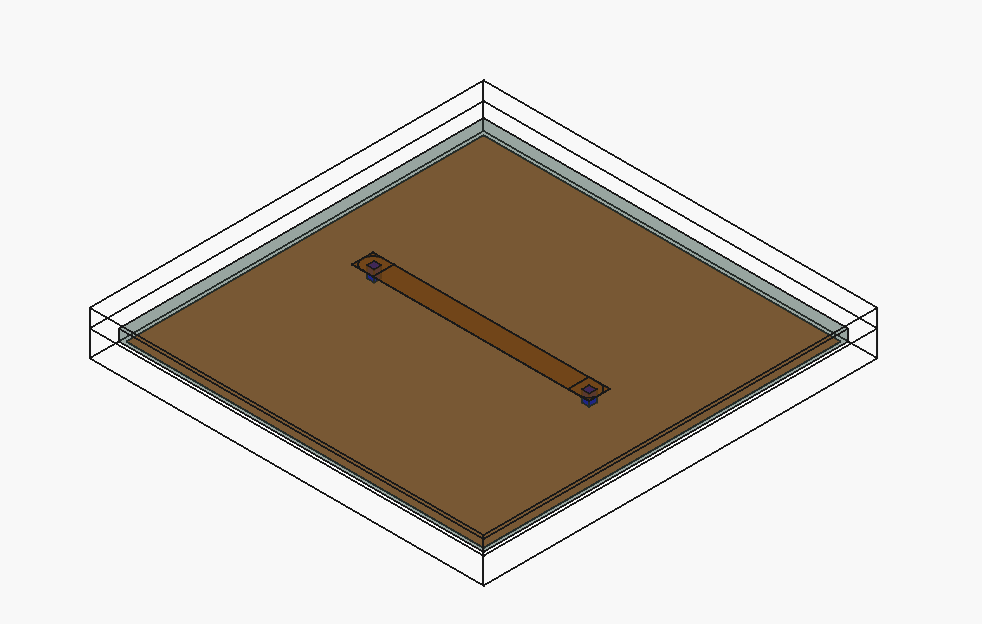
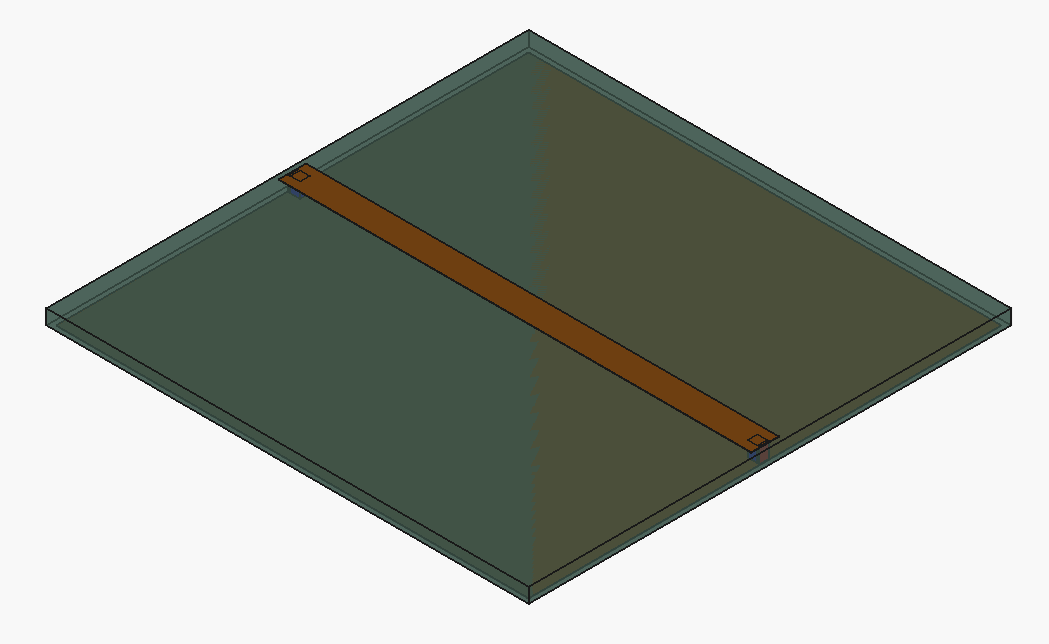
Creating S11 images for Emerge Software simulation results.

diff --git a/microstrip-emerge_EMerge_simulation/microstrip_emerge.py b/microstrip-emerge_EMerge_simulation/microstrip_emerge.py
@@ -46,7 +46,7 @@ simulationObj.mw.solveroutine.set_solver(em.EMSolver.PARDISO)
 #######################################################################################################################################
 fmin = 2.5*1000000000.0
 fmax = 3.5*1000000000.0
-resolution = 0.1
+resolution = 0.2
 npoints = 30
 simulationObj.mw.set_frequency_range(fmin, fmax, npoints)
 simulationObj.mw.set_resolution(resolution)

diff --git a/README.md b/README.md
@@ -1,14 +1,14 @@
 # Microstrip Simulation
 
-This project aims to simulate the behavior and electrical parameters of a microstrip using the KiCAD v9.0.6 design software and calculator, the FreeCAD 1.0.2 modeling software, and the OpenEMS, Emerge, and Elmer FEM software for electromagnetic simulations.
+This project aims to simulate the behavior and electrical parameters of a microstrip using KiCAD v9.0.6 design software and calculator, FreeCAD 1.0.2 modeling software, and OpenEMS, Emerge, and Elmer FEM software for electromagnetic simulations.
 
 ## Design
 
-Using the KiCAD calculator, we arrived at the following results for the microstrip in 3GHz:
+Using KiCAD calculator, we arrived at the following results for a microstrip in 3GHz:
 
 ![calculator](img/calculator.png)
 
-As configured in the calculation, the stack-up used was:
+As configured in calculator, the stack-up used was:
 
 ![stackup](img/stackup.png)
 
@@ -18,6 +18,12 @@ Using 1.85mm pads, the final design can be seen as following:
 
 ## Modeling
 
-After the project is completed in KiCAD, it is imported into FreeCAD, adding an air box, an PortIn and PortOut, and .ini files for configuring the generation of simulation scripts.
+After the design was complete in KiCAD, it was imported into FreeCAD, added air box, port in, port out and .ini files for generating simulation scripts with [FreeCAD-OpenEMS-Export](https://github.com/LubomirJagos42/FreeCAD-OpenEMS-Export).
 
 ![3d-model](img/3d-model.png)
+
+## Simulation
+
+Simulations using the FDTD method aim to visualize electromagnetic fields propagating in 3D over time, allowing for the analysis of a system's response to different excitations, as well as in a broadband context. On the other hand, FEM solvers are time-independent and perform frequency response analysis of systems, which is widely used to characterize RF components or calculate electrical current density.
+
+For these simulations, a response analysis to a 3GHz sine wave signal will be performed using OpenEMS, an S11 analysis using Emerge, and a current density analysis using Elmer.